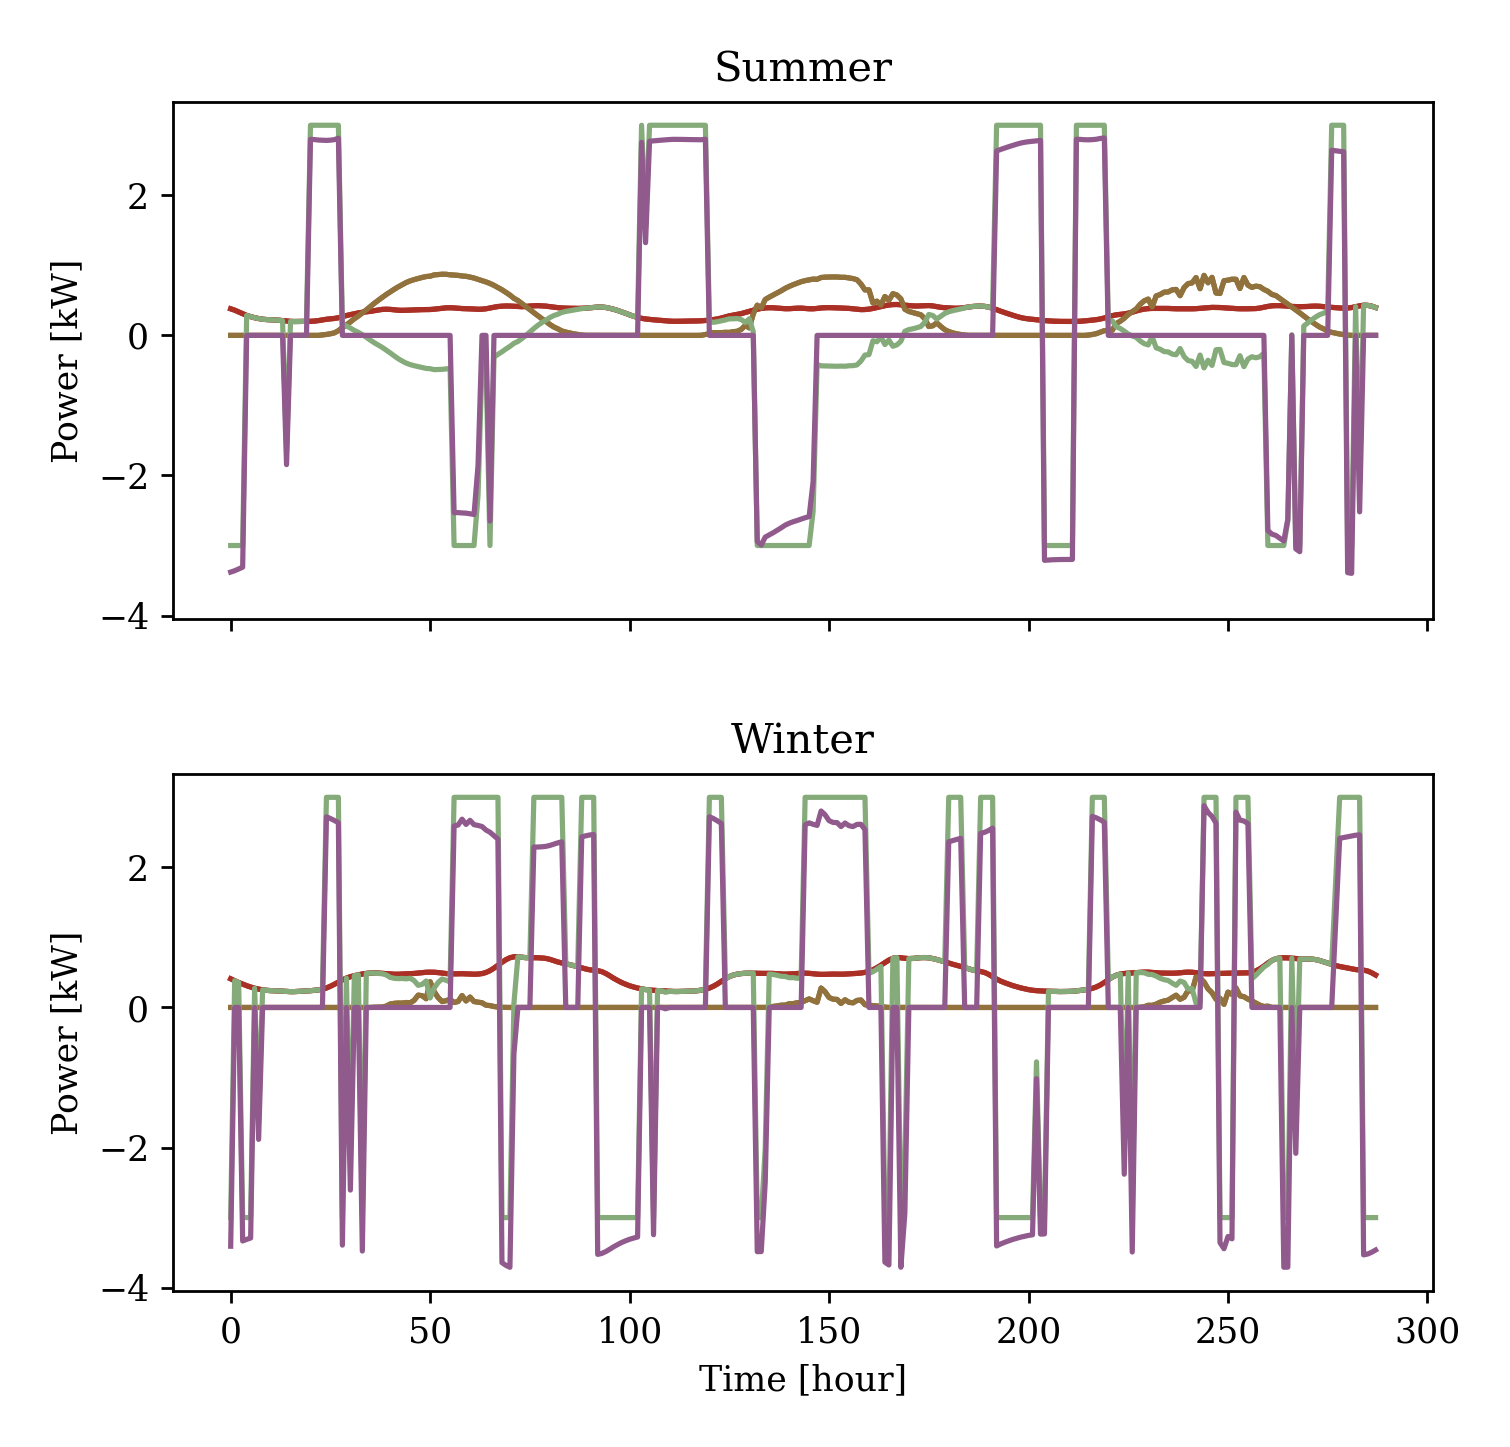
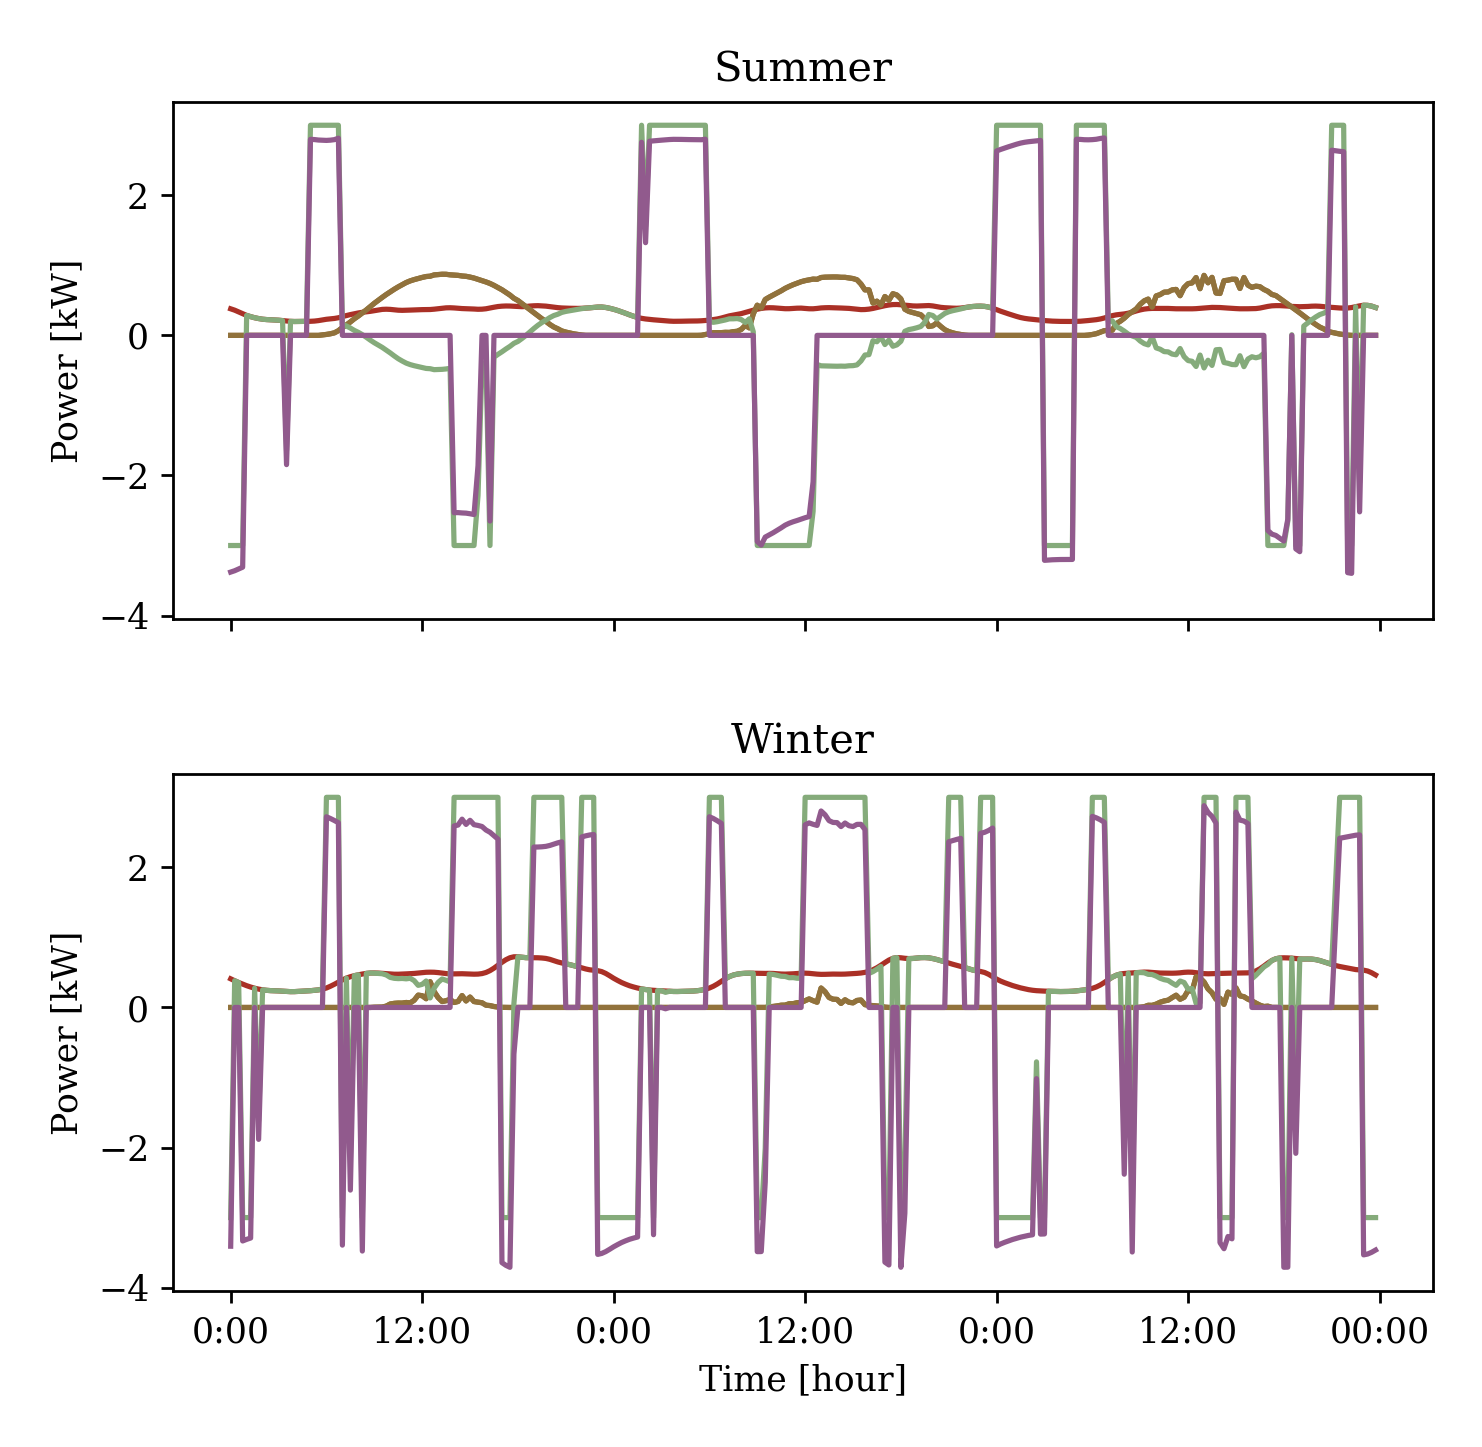
feat: Use better labels for the plots in question 2

diff --git a/src/question2.py b/src/question2.py
@@ -10,11 +10,19 @@ plt.rcParams['font.family'] = 'serif'
 group = 12
 seasons = ['Summer', 'Winter']
 
-# Create two figures
+# Create a figure
 xlabel = 'Time [hour]'
 ylabel = 'Power [kW]'
 figure, axes = plots.create_plot_with_subplots(
     2, 1, xlabel=xlabel, ylabel=ylabel)
+
+
+def initiate_subplot(axes, index, season):
+    subplot = axes[index]
+    subplot.title.set_text(season)
+    labels = ['0:00', '12:00', '0:00', '12:00', '0:00', '12:00', '00:00']
+    plt.xticks(np.arange(289, step=48), labels)
+    return subplot
 
 
 # Create a subplot for the demand and PV for each season
@@ -26,8 +34,7 @@ for index, season in enumerate(seasons):
     print('Optimised cost for {} season is {}'.format(season, cost))
 
     # Create the subplot
-    subplot = axes[index]
-    subplot.title.set_text(season)
+    subplot = initiate_subplot(axes, index, season)
     subplot.plot(results.demand, color='#aa3026')
     subplot.plot(results.pv_gen, color='#91723c')
 
@@ -44,9 +51,7 @@ for index, season in enumerate(seasons):
     print('Optimised cost for {} season is {}'.format(season, cost))
 
     # Create the subplot
-    subplot = axes[index]
-    subplot.title.set_text(season)
-    subplot.plot(results.demand, color='#aa3026')
+    subplot = initiate_subplot(axes, index, season)
     subplot.plot(results.pv_gen, color='#91723c')
     subplot.plot(results.grid, color='#85ab7b')
     subplot.plot(results.battery_power, color='#915a8d')
